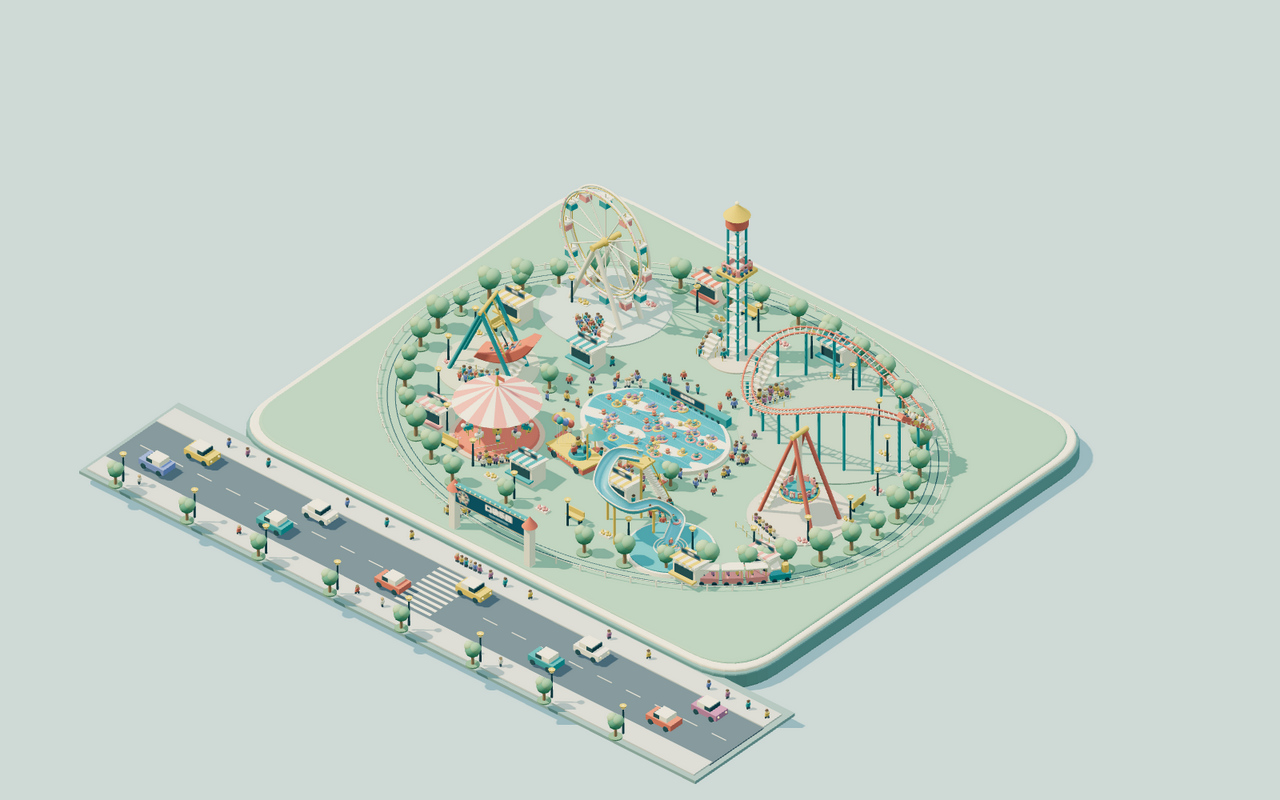
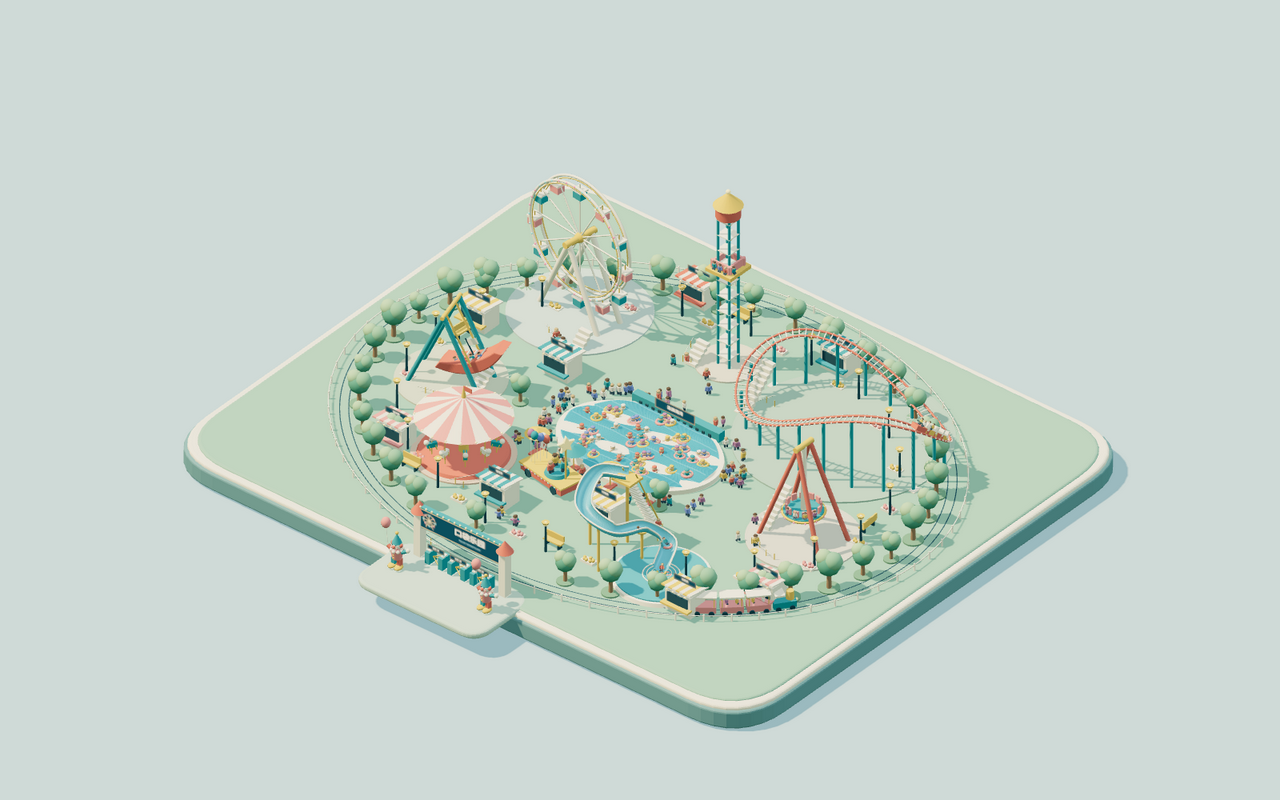
口袋游乐园

Changed region(s): [[0.0625, 0.2188, 0.9062, 1.0]]

diff --git a/wallpapers/pocket-fairground/wallpaper.html b/wallpapers/pocket-fairground/wallpaper.html
@@ -132,13 +132,11 @@ for(const[x,z,c,n]of[[-11,-3,C.teal,'冰淇淋'],[-15,12,C.pink,'棉花糖'],[4,
 // A wider gate beyond the parade and railway: illuminated logo and bilingual name.
 for(const x of[-4.2,4.2]){box(.65,4.2,.75,C.cream,scene,x,2.4,22.3);cyl(0,.7,1,C.coral,scene,x,4.9,22.3);}box(8.8,1.9,.45,C.teal,scene,0,4.05,22.3);sign('口袋乐园',8.4,1.8,scene,0,4.05,22.55,true);
 for(let i=0;i<15;i++)bulb((i-7)*.56,5.07,22.56);for(let i=0;i<70;i++){const a=i/70*TAU,[x,z]=ellipse(a,26.3,21.3);if(z>20&&Math.abs(x)<4.7)continue;box(.11,.8,.11,C.cream,scene,x,.65,z);}oval(26.3,21.3,.045,C.cream,.9);
-// Outside the gate: separate road, zebra crossing, sidewalks and local traffic.
-box(69,.3,13,'#88a5a0',scene,0,-.7,29.5);box(68,.12,7,'#61747d',scene,0,-.45,30);box(68,.16,2.4,'#c8cbbf',scene,0,-.36,25.3);box(68,.16,2.4,'#c8cbbf',scene,0,-.36,34.4);
-for(let x=-32;x<=32;x+=3.2)if(Math.abs(x)>3.2)box(1.6,.03,.1,'#eadcc0',scene,x,-.37,30);
-for(let z=27;z<=33;z+=.7)box(4,.03,.32,C.cream,scene,0,-.36,z);
-const cars=[],streetPeople=[];for(let i=0;i<10;i++){const g=group();const c=clothes[i%6];box(1.55,.55,2.8,c,g,0,.6,0);box(1.3,.6,1.4,C.cream,g,0,1.05,-.15);box(1.31,.38,.65,C.dark,g,0,1.1,.31);for(const x of[-.76,.76])for(const z of[-.85,.85]){const w=cyl(.27,.27,.16,C.dark,g,x,.34,z,12);w.rotation.z=Math.PI/2;}for(const x of[-.5,.5])bulb(x,.65,1.43,g,warm,.11);cars.push({g,dir:i%2?1:-1,phase:Math.floor(i/2)*13.2,drive:-33+Math.floor(i/2)*13.2});}
-for(let i=0;i<30;i++){const g=person(scene,0,0,0,i,.75);streetPeople.push({g,phase:i*2.21,dir:i%2?1:-1,side:i%3?25.4:34.4});}
-for(let x=-30;x<=30;x+=8){lamp(x,35.5);tree(x,36.5,.75);}
+// Compact arrival court, welcoming clowns and three ticket turnstiles.
+const apron=slab(12,6.4,.18,1.5,'#b9cbb5',.02);apron.position.z=24.7;
+const clowns=[],turnstiles=[],entryQueue=[];let admissions=0;
+for(const x of[-4.4,4.4]){const g=group(x,.48,24.8);g.scale.setScalar(1.3);for(const k of[-1,1]){box(.25,.55,.28,k<0?C.teal:C.coral,g,k*.2,.38,0);const shoe=ball(.24,C.gold,g,k*.23,.12,.14);shoe.scale.set(1, .55,1.5);}cyl(.4,.3,.65,C.pink,g,0,.95,0,12);for(let i=0;i<8;i++){const a=i/8*TAU;ball(.12,C.cream,g,Math.cos(a)*.34,1.25,Math.sin(a)*.34);}ball(.32,C.cream,g,0,1.58,0);ball(.105,C.coral,g,0,1.57,.31);for(const k of[-1,1]){ball(.13,C.coral,g,k*.29,1.62,0);ball(.035,C.dark,g,k*.11,1.7,.28);ball(.07,C.pink,g,k*.18,1.5,.25);}cyl(0,.31,.65,C.teal,g,0,2.05,0,12);ball(.11,C.gold,g,0,2.42,0);for(const y of[.8,1,1.2])ball(.06,C.gold,g,0,y,.34);const arm=group(.38,1.17,0,g);beam([0,0,0],[.4,.18,0],.12,C.teal,arm);ball(.14,C.cream,arm,.45,.22,0);beam([-.35,1.1,0],[-.65,1.3,0],.12,C.coral,g);beam([-.65,1.3,0],[-.8,2.65,0],.013,C.cream,g);ball(.3,C.pink,g,-.8,2.85,0).scale.y=1.2;clowns.push({g,arm});}
+for(let i=0;i<3;i++){const x=(i-1)*2.2;for(const side of[-1,1]){box(.42,1.05,.95,C.teal,scene,x+side*.65,1,22.6);box(.3,.1,.5,C.cream,scene,x+side*.65,1.58,22.6);}const rotor=group(x,1.03,22.6);for(let j=0;j<3;j++){const a=j*TAU/3;beam([-.42,0,0],[.42,Math.cos(a)*.48,Math.sin(a)*.48],.045,C.gold,rotor);}const indicator=bulb(x+.65,1.66,22.7,scene,cyanLight,.1);sign('验票入园',1.65,.42,scene,x,1.95,22.8);turnstiles.push({rotor,x,visitor:null,angle:0,indicator});}
 // Parade float: a moving stage, dancers, bunting, balloons and a golden star.
 const parade=group();box(2.3,.6,4.8,C.coral,parade,0,.6,0);box(2.5,.14,5,C.gold,parade,0,.94,0);for(const x of[-1.1,1.1])for(const z of[-1.5,1.5]){const o=cyl(.36,.36,.22,C.dark,parade,x,.38,z,12);o.rotation.z=Math.PI/2;}
 const stage=group(0,1.03,-.55,parade);cyl(.88,1,.3,C.teal,stage,0,.1,0);const dancers=[];for(let i=0;i<3;i++){const g=person(stage,Math.cos(i*TAU/3)*.55,.25,Math.sin(i*TAU/3)*.55,i,1);dancers.push(g);}cyl(.08,.08,3.1,C.gold,parade,0,2.4,-1.6);
@@ -147,12 +145,15 @@ const balloons=[];for(let i=0;i<7;i++){const x=(i%3-1)*.6,z=1.4+(i%2)*.4,y=2.8+(
 // A separate little train on the rim, with passengers in open wagons.
 const train=[];for(let i=0;i<4;i++){const g=group();box(1,.55,1.8,i===0?C.teal:C.pink,g,0,.6,0);for(const x of[-.53,.53])for(const z of[-.55,.55]){const o=cyl(.22,.22,.12,C.dark,g,x,.3,z,10);o.rotation.z=Math.PI/2;}if(!i){cyl(.3,.34,.8,C.gold,g,0,1.2,.5);box(1.1,.15,.8,C.cream,g,0,1.5,-.4);bulb(0,.7,1,g,warm,.12);}else{for(const z of[-.4,.4])seat('train',g,0,.74,z,.63);box(1.1,.12,1.9,C.cream,g,0,1.75,0);for(const x of[-.45,.45])for(const z of[-.75,.75])beam([x,.8,z],[x,1.7,z],.035,C.gold,g);}train.push(g);}
 // Queue and passenger ownership is persistent: the same figure boards and leaves.
-const walkers=[],rides={},lifeStats={boarded:0,exited:0,watched:0,shopped:0};
+const QUEUE_LIMIT=5;const walkers=[],rides={},lifeStats={boarded:0,exited:0,watched:0,shopped:0};
 const definitions=[['wheel',[-12,-5],5],['coaster',[3,-7],28],['tower',[-4,-9],22],['carousel',[-6,11],23],['ship',[-14,5],22],['swing',[14,5],24],['slide',[7,7.5],13],['train',[-4,18],44]];
-for(const[id,gate,duration]of definitions){rides[id]={id,gate:new THREE.Vector3(gate[0],.48,gate[1]),duration,elapsed:0,round:0,queue:[],occupied:new Map(),stage:'unloading'};const r=rides[id];for(let j=0;j<18;j++){const v=queuePoint(r,j);if(j%3===0){for(const dx of[-.4,.4])cyl(.035,.035,.6,C.gold,scene,v.x+dx,.75,v.z);}if(j>0&&j%6!==0){const a=queuePoint(r,j-1),b=v;beam([a.x-.4,.95,a.z],[b.x-.4,.95,b.z],.025,C.cream);}}}
-function queuePoint(r,index){const row=Math.floor(index/6),col=index%6,dx=r.gate.x,dz=r.gate.z-1,len=Math.hypot(dx,dz),forward=1+(row%2?5-col:col)*.55;return new THREE.Vector3(r.gate.x+dx/len*forward-dz/len*row*.85,.48,r.gate.z+dz/len*forward+dx/len*row*.85);}
+for(const[id,gate,duration]of definitions){rides[id]={id,gate:new THREE.Vector3(gate[0],.48,gate[1]),duration,elapsed:0,round:0,queue:[],occupied:new Map(),stage:'unloading'};const r=rides[id];for(let j=0;j<QUEUE_LIMIT;j++){const v=queuePoint(r,j);if(j%3===0){for(const dx of[-.4,.4])cyl(.035,.035,.6,C.gold,scene,v.x+dx,.75,v.z);}if(j>0){const a=queuePoint(r,j-1),b=v;beam([a.x-.4,.95,a.z],[b.x-.4,.95,b.z],.025,C.cream);}}}
+function queuePoint(r,index){const dx=r.gate.x,dz=r.gate.z-1,len=Math.hypot(dx,dz),forward=1+index*.65;return new THREE.Vector3(r.gate.x+dx/len*forward,.48,r.gate.z+dz/len*forward);}
+
 function newVisitor(i){const g=person(scene,0,.48,0,i,.72+rand()*.16);const w={g,id:i,size:g.scale.x,state:'roam',age:0,target:i%definitions.length,seat:null,from:new THREE.Vector3(),angle:rand()*TAU,roamFor:8+rand()*17,watchCooldown:0,watchAge:0};walkers.push(w);return w;}
-for(let i=0;i<216;i++){const w=newVisitor(i);if(i<144){const r=rides[definitions[i%8][0]];w.ride=r;w.state='queue';w.g.position.copy(queuePoint(r,r.queue.length));r.queue.push(w);}else{w.g.position.set(Math.cos(w.angle)*10.1,.48,1+Math.sin(w.angle)*7.4);}}
+for(let i=0;i<120;i++){const w=newVisitor(i);if(i<32){const r=rides[definitions[i%8][0]];w.ride=r;w.state='queue';w.g.position.copy(queuePoint(r,r.queue.length));r.queue.push(w);}else{w.g.position.set(Math.cos(w.angle)*10.1,.48,1+Math.sin(w.angle)*7.4);}}
+// New arrivals share one short line before being directed to an available scanner.
+for(const w of walkers.slice(-5)){w.state='entryQueue';w.age=0;w.g.position.set(0,.48,25+entryQueue.length*.62);entryQueue.push(w);}
 // Small stairs connect elevated boarding positions to their queue gates.
 for(const[x,z,h,steps]of[[3,-8,3,9],[-4,-10,1.4,5],[-14,4,1.8,6],[14,3,2.6,8],[-12,-6,1.2,4]])for(let j=0;j<steps;j++)box(1.1,h/steps,.4,C.cream,scene,x,.48+(j+.5)*h/steps,z-j*.35);
 // Fireworks use a fixed particle pool and deterministic flight/fade, with no allocations per burst.
@@ -160,7 +161,7 @@ const fireworksGeometry=new THREE.BufferGeometry(),fireworkPositions=new Float32
 const fireworks=new THREE.Points(fireworksGeometry,new THREE.PointsMaterial({size:4.5,sizeAttenuation:false,vertexColors:true,transparent:true,opacity:1,map:haloTexture,blending:THREE.AdditiveBlending,depthWrite:false,toneMapped:false}));fireworks.frustumCulled=false;scene.add(fireworks);let fireworkCount=0;
 const tailGeometry=new THREE.BufferGeometry(),tailPositions=new Float32Array(5*100*6),tailColors=new Float32Array(5*100*6);tailGeometry.setAttribute('position',new THREE.BufferAttribute(tailPositions,3));tailGeometry.setAttribute('color',new THREE.BufferAttribute(tailColors,3));const fireworkTails=new THREE.LineSegments(tailGeometry,new THREE.LineBasicMaterial({vertexColors:true,transparent:true,opacity:.75,blending:THREE.AdditiveBlending,depthWrite:false,toneMapped:false}));fireworkTails.frustumCulled=false;scene.add(fireworkTails);
 // Batch only static meshes. Animated subtrees retain independent transforms.
-const moving=new Set([rotor,...coasterCars,lift,merry,shipPivot,pendulum,...sliders,...ripples,parade,...train,...walkers.map(w=>w.g),waveWater,...swimmers.map(w=>w.g),...cars.map(c=>c.g),...streetPeople.map(p=>p.g)]);
+const moving=new Set([rotor,...coasterCars,lift,merry,shipPivot,pendulum,...sliders,...ripples,parade,...train,...walkers.map(w=>w.g),waveWater,...swimmers.map(w=>w.g),...clowns.map(c=>c.g),...turnstiles.map(t=>t.rotor)]);
 function batchStatic(){scene.updateMatrixWorld(true);const buckets=new Map(),remove=[];function visit(o){if(moving.has(o)||o.isLight)return;if(o.isMesh&&o.material instanceof THREE.MeshStandardMaterial&&o!==ground){const key=o.material.uuid;let bucket=buckets.get(key);if(!bucket)buckets.set(key,bucket={material:o.material,parts:[]});const geo=o.geometry.index?o.geometry.toNonIndexed():o.geometry.clone();geo.applyMatrix4(o.matrixWorld);bucket.parts.push(geo);remove.push(o);}for(const child of o.children)visit(child);}for(const o of scene.children)visit(o);for(const b of buckets.values()){const positions=[],normals=[];for(const g of b.parts){positions.push(g.attributes.position.array);normals.push(g.attributes.normal.array);}const join=arrays=>{const out=new Float32Array(arrays.reduce((n,a)=>n+a.length,0));let at=0;for(const a of arrays){out.set(a,at);at+=a.length;}return out};const g=new THREE.BufferGeometry();g.setAttribute('position',new THREE.BufferAttribute(join(positions),3));g.setAttribute('normal',new THREE.BufferAttribute(join(normals),3));mesh(g,b.material);for(const part of b.parts)part.dispose();}for(const o of remove)o.removeFromParent();}
 batchStatic();
 // Repeated figures and carriage parts share GPU draws while retaining their animation hierarchy.
@@ -183,33 +184,35 @@ train.forEach((g,i)=>{const a=Math.PI/2-travel(rides.train)*TAU+i*.092;g.positio
 const pos=poolGeometry.attributes.position;for(let i=0;i<pos.count;i++)pos.setY(i,waveHeight(pos.getX(i),pos.getZ(i),time));pos.needsUpdate=true;poolGeometry.computeVertexNormals();
 swimmers.forEach((w,i)=>{w.g.position.set(w.x+Math.sin(time*.3+w.phase)*.18,waveHeight(w.x,w.z,time),w.z+Math.cos(time*.27+w.phase)*.15);w.g.rotation.z=Math.sin(time*1.5+w.phase)*.09;w.g.rotation.y=w.phase+Math.sin(time*.2+i)*.25;});
 foamLines.forEach((line,i)=>{const z=-3.5+((time*.7+i)/9%1)*9,span=6.6*Math.sqrt(Math.max(0,1-((z-1)/4.7)**2)),a=line.geometry.attributes.position;for(let j=0;j<35;j++){const x=(j/34*2-1)*span;a.setXYZ(j,x,waveHeight(x,z,time)+.04,z);}a.needsUpdate=true;});
-// The two lanes stop at the zebra crossing; six pedestrians cross during red.
-cars.forEach(c=>{c.g.position.set(c.drive*c.dir,-.25,c.dir>0?28.2:31.8);c.g.rotation.y=c.dir>0?Math.PI/2:-Math.PI/2;});
-streetPeople.forEach((p,i)=>{if(i<6){const phase=time%30,reverse=Math.floor(time/30)%2,u=clamp((phase-24)/5.5);p.g.position.set((i-2.5)*.5,-.24,reverse?34.4-u*9:25.4+u*9);p.g.rotation.y=reverse?Math.PI:0;p.g.userData.legs.forEach((leg,j)=>leg.rotation.x=(phase>24?Math.sin(time*6+i+j*Math.PI)*.4:0));}else{const x=((time*.65+p.phase)%67)-33.5;p.g.position.set(x*p.dir,-.24,p.side);p.g.rotation.y=p.dir>0?Math.PI/2:-Math.PI/2;p.g.userData.legs.forEach((leg,j)=>leg.rotation.x=Math.sin(time*5+i+j*Math.PI)*.4);}});
+clowns.forEach((c,i)=>{c.arm.rotation.z=.4+Math.sin(time*3+i)*.45;c.g.rotation.y=Math.sin(time*.5+i)*.15;});
+turnstiles.forEach(g=>g.rotor.rotation.x=g.angle);
+
 }
 function walkTo(w,p,dt,pace=1.6){const delta=p.clone().sub(w.g.position),dist=delta.length();if(dist<.06){w.g.position.copy(p);w.g.userData.legs.forEach(l=>l.rotation.x=0);return true;}const stride=Math.min(dist,pace*dt),next=w.g.position.clone().addScaledVector(delta,stride/dist);const radius=Math.hypot(next.x/7.7,(next.z-1)/5.6);if(radius<1){const a=Math.atan2((w.g.position.z-1)/5.6,w.g.position.x/7.7),targetAngle=Math.atan2((p.z-1)/5.6,p.x/7.7),diff=Math.atan2(Math.sin(targetAngle-a),Math.cos(targetAngle-a)),b=a+Math.sign(diff)*stride/7;next.set(Math.cos(b)*7.72,.48,1+Math.sin(b)*5.62);}w.g.position.copy(next);w.g.rotation.set(0,Math.atan2(delta.x,delta.z),0);w.g.userData.legs.forEach((l,j)=>l.rotation.x=Math.sin(time*6+w.id+j*Math.PI)*.4);return w.g.position.distanceTo(p)<.06;}
 function release(r,index){const w=r.occupied.get(index);if(!w)return;w.state='exiting';w.age=0;w.from.copy(w.g.position);w.seat=null;r.occupied.delete(index);lifeStats.exited++;}
 function animateLife(dt){
- for(const dir of[-1,1]){let ahead=Infinity;for(const c of cars.filter(c=>c.dir===dir).sort((a,b)=>b.drive-a.drive)){let next=c.drive+dt*2;if(time%30>=20&&c.drive<=-4)next=Math.min(next,-4);next=Math.min(next,ahead-4.3);if(next>35)next=-35;c.drive=next;if(next>-34)ahead=next;}}
-
+ for(const gate of turnstiles){if(!gate.visitor&&entryQueue.length){const w=entryQueue.shift();gate.visitor=w;w.state='ticketing';w.age=0;w.entryGate=gate;w.from.copy(w.g.position);w.gateStart=gate.angle;}}
  for(const r of Object.values(rides)){const old=r.elapsed;r.elapsed+=dt;if(r.elapsed>=10+r.duration){r.elapsed-=10+r.duration;r.round++;const available=r.id==='wheel'?[(12-r.round%12)%12]:[...r.occupied.keys()];for(const i of available)release(r,i);r.stage='unloading';}
  if(old<4&&r.elapsed>=4){const slots=r.id==='wheel'?[(12-r.round%12)%12]:seats[r.id].map((_,i)=>i);for(const index of slots){if(r.occupied.has(index)||!r.queue.length)continue;const w=r.queue.shift();w.state='boarding';w.age=0;w.from.copy(w.g.position);w.seat=seats[r.id][index];r.occupied.set(index,w);lifeStats.boarded++;}r.stage='boarding';}
  if(r.elapsed>=10)r.stage='running';
  }
  pose();scene.updateMatrixWorld(true);
  for(const w of walkers){w.age+=dt;w.watchCooldown=Math.max(0,w.watchCooldown-dt);w.g.userData.arms.forEach((a,j)=>a.rotation.z=(j?1:-1)*.16);
- if(w.state==='queue'){const index=w.ride.queue.indexOf(w);walkTo(w,queuePoint(w.ride,index),dt,2.4);}
+ if(w.state==='entryQueue'){const index=entryQueue.indexOf(w);walkTo(w,new THREE.Vector3(0,.48,25+index*.62),dt,1.5);}
+ else if(w.state==='ticketing'){const gate=w.entryGate;const scanner=new THREE.Vector3(gate.x,.48,23.5),inside=new THREE.Vector3(gate.x,.48,21);if(w.age<2){w.g.position.lerpVectors(w.from,scanner,smooth(w.age/2));}else if(w.age<3.2){w.g.position.copy(scanner);w.g.userData.arms[1].rotation.z=-1.2;}else{const u=smooth((w.age-3.2)/2.8);w.g.position.lerpVectors(scanner,inside,u);gate.angle=w.gateStart+u*TAU/3;}w.g.rotation.y=Math.PI;if(w.age>=6){gate.visitor=null;w.entryGate=null;w.state='roam';w.age=0;w.angle=Math.atan2(w.g.position.z-1,w.g.position.x);admissions++;}}
+ else if(w.state==='returning'){const waypoint=w.g.position.z<24?new THREE.Vector3(3.5,.48,25):new THREE.Vector3(0,.48,26);if(walkTo(w,waypoint,dt,1.6)&&waypoint.x===0){if(entryQueue.length<3){w.state='entryQueue';w.age=0;entryQueue.push(w);}else{w.state='roam';w.age=0;}}}
+ else if(w.state==='queue'){const index=w.ride.queue.indexOf(w);walkTo(w,queuePoint(w.ride,index),dt,2.4);}
  else if(w.state==='boarding'){const target=w.seat.getWorldPosition(new THREE.Vector3()),u=smooth(w.age/5.8),via=w.ride.gate.clone();via.y=Math.max(.48,target.y-.2);if(u<.35)w.g.position.lerpVectors(w.from,w.ride.gate,u/.35);else if(u<.72)w.g.position.lerpVectors(w.ride.gate,via,(u-.35)/.37);else w.g.position.lerpVectors(via,target,(u-.72)/.28);w.g.scale.setScalar(w.size+(w.seat.userData.size-w.size)*u);w.g.userData.legs.forEach((l,j)=>l.rotation.x=Math.sin(time*6+j*Math.PI)*.35);if(w.ride.stage==='running'){w.state='riding';w.age=0;}}
  else if(w.state==='riding'){w.seat.getWorldPosition(w.g.position);w.seat.getWorldQuaternion(w.g.quaternion);w.g.scale.setScalar(w.seat.userData.size);w.g.userData.legs.forEach(l=>l.rotation.x=-.65);}
- else if(w.state==='exiting'){const exit=w.ride.gate.clone().add(new THREE.Vector3(-1.1,0,0));const u=smooth(w.age/3.8);w.g.position.lerpVectors(w.from,exit,u);w.g.rotation.set(0,Math.PI/2,0);w.g.scale.setScalar(w.size);if(u>=1){w.state='roam';w.age=0;w.target=(w.target+1+w.id%3)%8;w.angle=Math.atan2(w.g.position.z-1,w.g.position.x);}}
+ else if(w.state==='exiting'){const exit=w.ride.gate.clone().add(new THREE.Vector3(-1.1,0,0));const u=smooth(w.age/3.8);w.g.position.lerpVectors(w.from,exit,u);w.g.rotation.set(0,Math.PI/2,0);w.g.scale.setScalar(w.size);if(u>=1){w.state='roam';w.age=0;w.target=(w.target+1+w.id%3)%8;if(w.id%17===0)w.state='returning';w.angle=Math.atan2(w.g.position.z-1,w.g.position.x);}}
  else if(w.state==='watching'){w.g.rotation.y=Math.atan2(parade.position.x-w.g.position.x,parade.position.z-w.g.position.z);w.g.userData.legs.forEach(l=>l.rotation.x=0);w.g.userData.arms.forEach((a,j)=>a.rotation.z=(j?1:-1)*(1.4+Math.sin(time*5+w.id)*.25));if(w.age>7||w.g.position.distanceTo(parade.position)>8){w.state='roam';w.age=0;w.watchCooldown=25;}}
  else if(w.state==='shopping'){const shop=shops[w.id%shops.length];walkTo(w,new THREE.Vector3(shop.x+(w.id%3-1)*.45,.48,shop.z),dt);if(w.age>10){w.state='roam';w.age=0;w.watchCooldown=10;}}
- else {w.g.scale.setScalar(w.size);const distance=w.g.position.distanceTo(parade.position);if(distance<6.5&&w.watchCooldown===0&&w.id%3!==0){w.state='watching';w.age=0;lifeStats.watched++;continue;}if(w.age>w.roamFor){if(w.id%4===0&&w.watchCooldown===0){w.state='shopping';w.age=0;w.watchCooldown=20;lifeStats.shopped++;continue;}const r=rides[definitions[w.target][0]];const end=queuePoint(r,r.queue.length);if(walkTo(w,end,dt,1.8)){w.ride=r;w.state='queue';w.age=0;r.queue.push(w);}}else{w.angle+=dt*.075;const p=new THREE.Vector3(Math.cos(w.angle)*(8.5+w.id%3*.3),.48,1+Math.sin(w.angle)*(6.1+w.id%3*.3));walkTo(w,p,dt,1.3);}}
+ else {w.g.scale.setScalar(w.size);const distance=w.g.position.distanceTo(parade.position);if(distance<6.5&&w.watchCooldown===0&&w.id%3!==0){w.state='watching';w.age=0;lifeStats.watched++;continue;}if(w.age>w.roamFor){if(w.id%4===0&&w.watchCooldown===0){w.state='shopping';w.age=0;w.watchCooldown=20;lifeStats.shopped++;continue;}const r=rides[definitions[w.target][0]];if(r.queue.length>=QUEUE_LIMIT){w.target=(w.target+1)%definitions.length;w.age=0;w.roamFor=5+rand()*10;continue;}const end=queuePoint(r,r.queue.length);if(walkTo(w,end,dt,1.8)){w.ride=r;w.state='queue';w.age=0;r.queue.push(w);}}else{w.angle+=dt*.075;const p=new THREE.Vector3(Math.cos(w.angle)*(8.5+w.id%3*.3),.48,1+Math.sin(w.angle)*(6.1+w.id%3*.3));walkTo(w,p,dt,1.3);}}
  }
 }
 function updateFireworks(){fireworkCount=0;fireworks.visible=daylight<.3;fireworkTails.visible=fireworks.visible;if(!fireworks.visible)return;const palette=['#ffc67b','#ffa9cf','#91ebe9','#c5b0ff','#ffe8b4'];for(let b=0;b<5;b++){const age=(clockTime+b*2.7)%14,originX=(b-2)*7,originZ=-16-(b%2)*3,height=19+(b%3)*2;const color=new THREE.Color(palette[b]);for(let j=0;j<100;j++){const index=(b*100+j)*3;if(age<1.6){fireworkPositions[index]=originX;fireworkPositions[index+1]=4+age/1.6*(height-4)-j*.025;fireworkPositions[index+2]=originZ;const f=j<24?1-j/24:0;fireworkColors[index]=color.r*f;fireworkColors[index+1]=color.g*f;fireworkColors[index+2]=color.b*f;if(j<24)fireworkCount++;}else{const t=age-1.6,az=j*2.39996,cos=1-2*(j+.5)/100,sin=Math.sqrt(1-cos*cos),radius=(3.2+b*.3)*t*Math.exp(-t*.22);fireworkPositions[index]=originX+Math.cos(az)*sin*radius;fireworkPositions[index+1]=height+cos*radius-t*t*.48;fireworkPositions[index+2]=originZ+Math.sin(az)*sin*radius;const fade=Math.max(0,1-t/4.2);fireworkColors[index]=color.r*fade;fireworkColors[index+1]=color.g*fade;fireworkColors[index+2]=color.b*fade;if(fade>0)fireworkCount++;}}}for(let b=0;b<5;b++){const age=(clockTime+b*2.7)%14,t=Math.max(0,age-1.6),previous=Math.max(0,t-.16),originX=(b-2)*7,originZ=-16-(b%2)*3,height=19+(b%3)*2;for(let j=0;j<100;j++){const n=(b*100+j)*3,k=n*2;tailPositions.set(fireworkPositions.subarray(n,n+3),k);tailColors.set(fireworkColors.subarray(n,n+3),k);const az=j*2.39996,cos=1-2*(j+.5)/100,sin=Math.sqrt(1-cos*cos),r=(3.2+b*.3)*previous*Math.exp(-previous*.22);tailPositions[k+3]=age<1.6?fireworkPositions[n]:originX+Math.cos(az)*sin*r;tailPositions[k+4]=age<1.6?fireworkPositions[n+1]-.45:height+cos*r-previous*previous*.48;tailPositions[k+5]=age<1.6?fireworkPositions[n+2]:originZ+Math.sin(az)*sin*r;for(let d=0;d<3;d++)tailColors[k+3+d]=fireworkColors[n+d]*.3;}}tailGeometry.attributes.position.needsUpdate=true;tailGeometry.attributes.color.needsUpdate=true;fireworksGeometry.attributes.position.needsUpdate=true;fireworksGeometry.attributes.color.needsUpdate=true;}
 function advance(dt){const chunks=Math.ceil(dt/.05),step=dt/Math.max(1,chunks);for(let i=0;i<chunks;i++){time+=step*speed;clockTime+=step;animateLife(step*speed);}}
-function view(){const aspect=innerWidth/innerHeight,span= Math.max(68,93/aspect)/zoom;camera.left=-span*aspect/2;camera.right=span*aspect/2;camera.top=span/2;camera.bottom=-span/2;camera.position.set(Math.sin(azimuth)*85*Math.cos(elevation),85*Math.sin(elevation),Math.cos(azimuth)*85*Math.cos(elevation));camera.lookAt(0,5,3);camera.updateProjectionMatrix();}
+function view(){const aspect=innerWidth/innerHeight,span= Math.max(61,84/aspect)/zoom;camera.left=-span*aspect/2;camera.right=span*aspect/2;camera.top=span/2;camera.bottom=-span/2;camera.position.set(Math.sin(azimuth)*85*Math.cos(elevation),85*Math.sin(elevation),Math.cos(azimuth)*85*Math.cos(elevation));camera.lookAt(0,5,1);camera.updateProjectionMatrix();}
 function render(){pose();lighting();updateFireworks();haloMat.opacity=(1-daylight)*.85;for(const l of nightLights)l.intensity=(1-daylight)*26;scene.updateMatrixWorld(true);for(const{inst,originals}of instanceBatches){originals.forEach((o,i)=>inst.setMatrixAt(i,o.matrixWorld));inst.instanceMatrix.needsUpdate=true;}renderer.render(scene,camera);frame++;}
 function resize(){renderer.setPixelRatio(Math.min(devicePixelRatio,1.5,Math.sqrt(2600000/(innerWidth*innerHeight))));renderer.setSize(innerWidth,innerHeight);view();render();}
 function tick(now){raf=0;if(paused||document.hidden)return;if(!last)last=now;const dt=(now-last)/1000;if(dt>=1/31){const step=Math.min(dt,.1);advance(step);last=now;render();}raf=requestAnimationFrame(tick);}
@@ -221,6 +224,6 @@ addEventListener('keydown',e=>{if(['INPUT','SELECT','BUTTON'].includes(e.target.
 addEventListener('resize',resize);document.addEventListener('visibilitychange',schedule);$('view').addEventListener('webglcontextlost',e=>{e.preventDefault();paused=true;schedule();$('error').hidden=false;});
 if(Q.get('hud')==='0')document.body.classList.add('hud-off');setTimeout(()=>document.body.classList.add('quiet'),14000);$('pause').textContent=paused?'继续':'暂停';const startTime=time;time=Math.max(0,startTime-180);clockTime=time;advance(Math.min(startTime,180)/speed);clockTime=startTime;resize();schedule();
 // A read-only snapshot plus deterministic stepping for the offline verification harness.
-window.park={state:()=>({time,clockTime,paused,frame,daylight,people:walkers.length,swimmers:swimmers.length,shops:shops.length,cars:cars.length,fireworkCount,visitorStates:walkers.reduce((a,w)=>(a[w.state]=(a[w.state]||0)+1,a),{}),lifeStats:{...lifeStats},queues:Object.fromEntries(Object.entries(rides).map(([id,r])=>[id,{queue:r.queue.length,occupied:r.occupied.size,stage:r.stage,round:r.round}])),drawCalls:renderer.info.render.calls,triangles:renderer.info.render.triangles,pixels:renderer.domElement.width*renderer.domElement.height,rides:{wheel:rotor.rotation.z,coaster:coasterCars[0].position.toArray(),drop:lift.position.y,ship:shipPivot.rotation.z,pendulum:pendulum.rotation.z,slide:sliders[0].position.toArray(),parade:parade.position.toArray()},finite:scene.children.every(o=>o.position.toArray().every(Number.isFinite))}),step:dt=>{advance(dt);render();},audit:()=>({unique:new Set(walkers.map(w=>w.id)).size,queueDuplicates:Object.values(rides).some(r=>new Set(r.queue).size!==r.queue.length),invalid:walkers.filter(w=>!w.g.position.toArray().every(Number.isFinite)).length,unowned:walkers.filter(w=>w.state==='queue'&&!w.ride.queue.includes(w)).length,occupancyMismatch:Object.values(rides).some(r=>[...r.occupied.values()].some(w=>!['boarding','riding'].includes(w.state)||w.ride!==r)),poolIntruders:walkers.filter(w=>['roam','watching','shopping','queue'].includes(w.state)&&Math.hypot(w.g.position.x/7.1,(w.g.position.z-1)/5)<1).length,coasterCruiseLapsPerSecond:2/(rides.coaster.duration-2),paradeRadius:Math.hypot(parade.position.x/10.2,(parade.position.z-1)/7.7)})};
+window.park={state:()=>({time,clockTime,paused,frame,daylight,people:walkers.length,swimmers:swimmers.length,shops:shops.length,cars:0,clowns:clowns.length,turnstiles:turnstiles.length,admissions,entryQueue:entryQueue.length,fireworkCount,visitorStates:walkers.reduce((a,w)=>(a[w.state]=(a[w.state]||0)+1,a),{}),lifeStats:{...lifeStats},queues:Object.fromEntries(Object.entries(rides).map(([id,r])=>[id,{queue:r.queue.length,occupied:r.occupied.size,stage:r.stage,round:r.round}])),drawCalls:renderer.info.render.calls,triangles:renderer.info.render.triangles,pixels:renderer.domElement.width*renderer.domElement.height,rides:{wheel:rotor.rotation.z,coaster:coasterCars[0].position.toArray(),drop:lift.position.y,ship:shipPivot.rotation.z,pendulum:pendulum.rotation.z,slide:sliders[0].position.toArray(),parade:parade.position.toArray()},finite:scene.children.every(o=>o.position.toArray().every(Number.isFinite))}),step:dt=>{advance(dt);render();},audit:()=>({unique:new Set(walkers.map(w=>w.id)).size,maxQueue:Math.max(...Object.values(rides).map(r=>r.queue.length)),singleFile:Object.values(rides).every(r=>{const a=queuePoint(r,0),b=queuePoint(r,1);return r.queue.every((_,i)=>{const p=queuePoint(r,i);return Math.abs((p.x-a.x)*(b.z-a.z)-(p.z-a.z)*(b.x-a.x))<1e-6;});}),queueDuplicates:Object.values(rides).some(r=>new Set(r.queue).size!==r.queue.length),invalid:walkers.filter(w=>!w.g.position.toArray().every(Number.isFinite)).length,unowned:walkers.filter(w=>w.state==='queue'&&!w.ride.queue.includes(w)).length,occupancyMismatch:Object.values(rides).some(r=>[...r.occupied.values()].some(w=>!['boarding','riding'].includes(w.state)||w.ride!==r)),poolIntruders:walkers.filter(w=>['roam','watching','shopping','queue'].includes(w.state)&&Math.hypot(w.g.position.x/7.1,(w.g.position.z-1)/5)<1).length,coasterCruiseLapsPerSecond:2/(rides.coaster.duration-2),paradeRadius:Math.hypot(parade.position.x/10.2,(parade.position.z-1)/7.7)})};
 })();
 </script></body></html>

diff --git a/wallpapers/pocket-fairground/README.md b/wallpapers/pocket-fairground/README.md
@@ -1,6 +1,6 @@
 # 口袋乐园 · 昼夜嘉年华
 
-一座可旋转观看的真实 3D 微缩游乐园。薄荷绿地台、中央水上乐园、珊瑚色设施和园外街景组成一枚桌面上的游乐场模型。园内不绘制道路，游客和花车依靠不可见的行为路线活动。所有模型与招牌均由程序生成，Three.js 随目录提供，不需要联网。
+一座可旋转观看的真实 3D 微缩游乐园。薄荷绿地台、中央水上乐园、珊瑚色设施和迎宾入口组成一枚桌面上的游乐场模型。园内不绘制道路，游客和花车依靠不可见的行为路线活动。所有模型与招牌均由程序生成，Three.js 随目录提供，不需要联网。
 
 ## 场景
 
@@ -14,11 +14,13 @@
 - 中央造浪池：56 位水中游客、彩色泳圈、起伏的水面和波峰线，游客随浪浮动；池畔有躺椅、遮阳伞和「造浪海湾」标牌。
 - 表演花车：沿园内中部围绕水上乐园绕行，远离外围边界。车上有旋转舞台、跳舞小人、星形装饰、气球和彩灯。
 - 环园小火车：独立外围轨道和三节载客车厢。
-- 216 位园内游客在排队、上车、乘坐、离场、漫游、逛店和观看花车之间转换，采用固定人数的持续模拟；不是隐藏排队人物后另生成乘客。
-- 八项载客设施有独立先进先出队列、座位占用和停站周期。花车附近的部分游客会停下、转向花车挥手，观看后继续活动。
+- 120 位园内游客在排队、上车、乘坐、离场、漫游、逛店和观看花车之间转换，采用固定人数的持续模拟；不是隐藏排队人物后另生成乘客。
+- 八项载客设施各有一条单列先进先出短队，初始每队 4 人，最多 5 人；队满时游客先去别处活动。座位占用和停站上下客继续保留。花车附近的部分游客会停下、转向花车挥手，观看后继续活动。
 - 9 家带中文招牌的小店：冰淇淋、棉花糖、柠檬茶、热狗屋、纪念品、爆米花、甜甜圈、咖啡屋、泳具店。
 - 加宽的大门带摩天轮图形 logo、「口袋乐园」中文名称和英文副标题。
-- 园外双向公路、斑马线、人行道、10 辆汽车与 30 位行人。汽车在行人过街时停车，并保持车间距。
+- 门前小广场有两位彩衣、红鼻子、尖帽子的小丑挥手迎宾，旁边配气球。
+- 三台验票闸机配扫描提示和旋转闸杆；新到访游客共用一条短队，依次分配空闲闸机，停留验票后入园。少量游客游玩后回到接待区，使入口持续有人活动。
+- 已移除园外公路、人行道、汽车和街边行人。
 - 夜间分批发射烟火，包含升空、彩色绽放、下坠拖尾和淡出；白天不显示烟火。
 
 这是用于壁纸的风格化模拟，已实现上下客、队列与座位归属，地面游客会绕开造浪池；不包含完整购票经济或全场景物理碰撞系统。
@@ -53,12 +55,12 @@
 
 ## 运行与验证
 
-需要 WebGL 和硬件加速。目标 30 FPS，像素倍率不超过 1.5，总渲染像素不超过约 260 万；页面隐藏时停止动画调度。静态几何按材质合并，重复的动态人物和车厢零件使用实例绘制。当前默认视角约 265–267 次主画面绘制调用、29.6 万三角形。烟火使用固定 500 粒子池，游客人数固定；性能仍取决于设备和宿主。
+需要 WebGL 和硬件加速。目标 30 FPS，像素倍率不超过 1.5，总渲染像素不超过约 260 万；页面隐藏时停止动画调度。静态几何按材质合并，重复的动态人物和车厢零件使用实例绘制。当前默认视角约 270 次主画面绘制调用。烟火使用固定 500 粒子池，游客人数固定；性能仍取决于设备和宿主。
 
 ```powershell
 node scripts/verify-pocket-fairground.cjs --write-preview
 ```
 
-验证使用 Electron 实际加载离线 `file://` 页面，覆盖白天、黄昏、夜晚、竖屏、超宽屏，完整昼夜周期、各设施位置变化、暂停继续、设置、静止时缩放窗口、减少动态效果和壁纸库扫描。另模拟六分钟检查排队、上车、离场、购物与花车观看事件、人物唯一性、座位与队列归属、造浪池边界、花车内圈路线、过山车速度、夜间烟火和白天禁用烟火。截图写入 `temp/pocket-fairground/`（临时目录，不纳入版本控制）。这些检查不代表已在 Windows WebView2 桌面层实际挂载测试。
+验证使用 Electron 实际加载离线 `file://` 页面，覆盖白天、黄昏、夜晚、竖屏、超宽屏，完整昼夜周期、各设施位置变化、暂停继续、设置、静止时缩放窗口、减少动态效果和壁纸库扫描。另模拟六分钟检查排队、上车、离场、购物与花车观看事件、人物唯一性、座位与队列归属、单列队伍及每队五人的上限、验票入园持续发生、造浪池边界、花车内圈路线、过山车速度、夜间烟火和白天禁用烟火。截图写入 `temp/pocket-fairground/`（临时目录，不纳入版本控制）。这些检查不代表已在 Windows WebView2 桌面层实际挂载测试。
 
 Three.js 0.160.1 使用 MIT 许可证，见同目录 `THREE-LICENSE.txt`。
